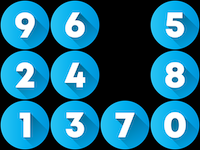
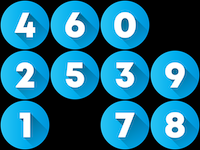
FE-BE connect

diff --git a/e2e-keypad/src/main/kotlin/bob/e2e/domain/service/KeypadService.kt b/e2e-keypad/src/main/kotlin/bob/e2e/domain/service/KeypadService.kt
@@ -16,6 +16,7 @@ import javax.imageio.ImageTranscoder
 
 @Service
 class KeypadService {
+    private val keypads = mutableMapOf<String, Pair<List<KeypadItem>, String>>()
 
     fun numRandomString(length: Int): String {
         val charset = "ABCDEFGHIJKLMNOPQRSTUVWXTZabcdefghiklmnopqrstuvwxyz0123456789"
@@ -62,7 +63,8 @@ class KeypadService {
         ImageIO.write(image, "png", outputFile)
     }
 
-    fun keyPadHashMap(): List<KeypadItem> {
+    //    fun keyPadHashMap(): Pair<List<KeypadItem>, String> {
+    fun keyPadHashMap(): Pair<String, List<KeypadItem>> {
         val keyList = (0..9).map { it.toString() }.toMutableList().apply {
             add("blank")
             add("blank")
@@ -75,22 +77,35 @@ class KeypadService {
             val randomString = numRandomString(10)
             val hash = hashMap(randomString)
             val image = loadImage(key)
+            val encodedImage = image?.let { encodeImage(it) }
+
             images.add(image)
 
             val item = KeypadItem(
                 number = key,
-                randomString = hash
+                randomString = hash,
+                imageUrl = encodedImage
             )
             keypadItems.add(item)
         }
 
-        // 키패드 항목들을 무작위로 섞음
         Collections.shuffle(keypadItems)
         Collections.shuffle(images)
 
         val keypadImage = makeKeypadImage(images)
         saveKeypadImage(keypadImage, "output/keypad.png")
-        return keypadItems
+
+        val encodeKepadImage = encodeImage(keypadImage)
+
+        val keypadId = UUID.randomUUID().toString()
+        keypads[keypadId] = Pair(keypadItems, encodeKepadImage)
+
+//        return Pair(keypadItems, encodeKepadImage)
+        return Pair(keypadId, keypadItems)
+    }
+
+    fun currentKeypadImage(keypadId: String): Pair<List<KeypadItem>, String>? {
+        return keypads[keypadId]
     }
 
     fun makeKeypadImage(images: List<BufferedImage>): BufferedImage {

diff --git a/e2e-keypad/src/main/kotlin/bob/e2e/presentation/controller/TestController.kt b/e2e-keypad/src/main/kotlin/bob/e2e/presentation/controller/TestController.kt
@@ -1,21 +1,32 @@
 package bob.e2e.presentation.controller
 
 import bob.e2e.domain.service.KeypadService
+import org.springframework.http.ResponseEntity
 import org.springframework.web.bind.annotation.GetMapping
+import org.springframework.web.bind.annotation.PostMapping
 import org.springframework.web.bind.annotation.RequestParam
 import org.springframework.web.bind.annotation.RestController
 
+
 @RestController
 class TestController(private val keypadService: KeypadService) {
-    @GetMapping("/keypad")
+    @GetMapping("/api/keypad")
     fun getKeypad(
-        @RequestParam keypadId: String,
-        @RequestParam timestamp: Long
-    ):Map<String, Any> {
-        val keypadItems = keypadService.keyPadHashMap()
-        return mapOf(
-            "keypadItems" to keypadItems,
-            "timeStamp" to timestamp
-        )
+        @RequestParam keypadId: String
+    ): ResponseEntity<Map<String, Any>> {
+        val keypadData = keypadService.currentKeypadImage(keypadId)
+
+        return if (keypadData != null) {
+            ResponseEntity.ok(mapOf("keypadItems" to keypadData.first, "keypadImage" to keypadData.second))
+        } else {
+            return ResponseEntity.status(404).body(mapOf("error" to "No keypad image"))
+        }
+    }
+
+    @PostMapping("/api/keypad")
+    fun newKeypad(): ResponseEntity<Map<String, Any>> {
+        val (keypadId, keypadItems) = keypadService.keyPadHashMap()
+//        return ResponseEntity.ok(mapOf("keypadId" to keypadId))
+        return ResponseEntity.ok(mapOf("keypadId" to keypadId, "keypadItems" to keypadItems))
     }
 }

diff --git a/e2e-keypad/src/main/kotlin/bob/e2e/presentation/dto/KeypadItem.kt b/e2e-keypad/src/main/kotlin/bob/e2e/presentation/dto/KeypadItem.kt
@@ -5,4 +5,5 @@ import java.util.*
 data class KeypadItem(
     val number: String,
     val randomString: String,
+    val imageUrl : String?
 )
